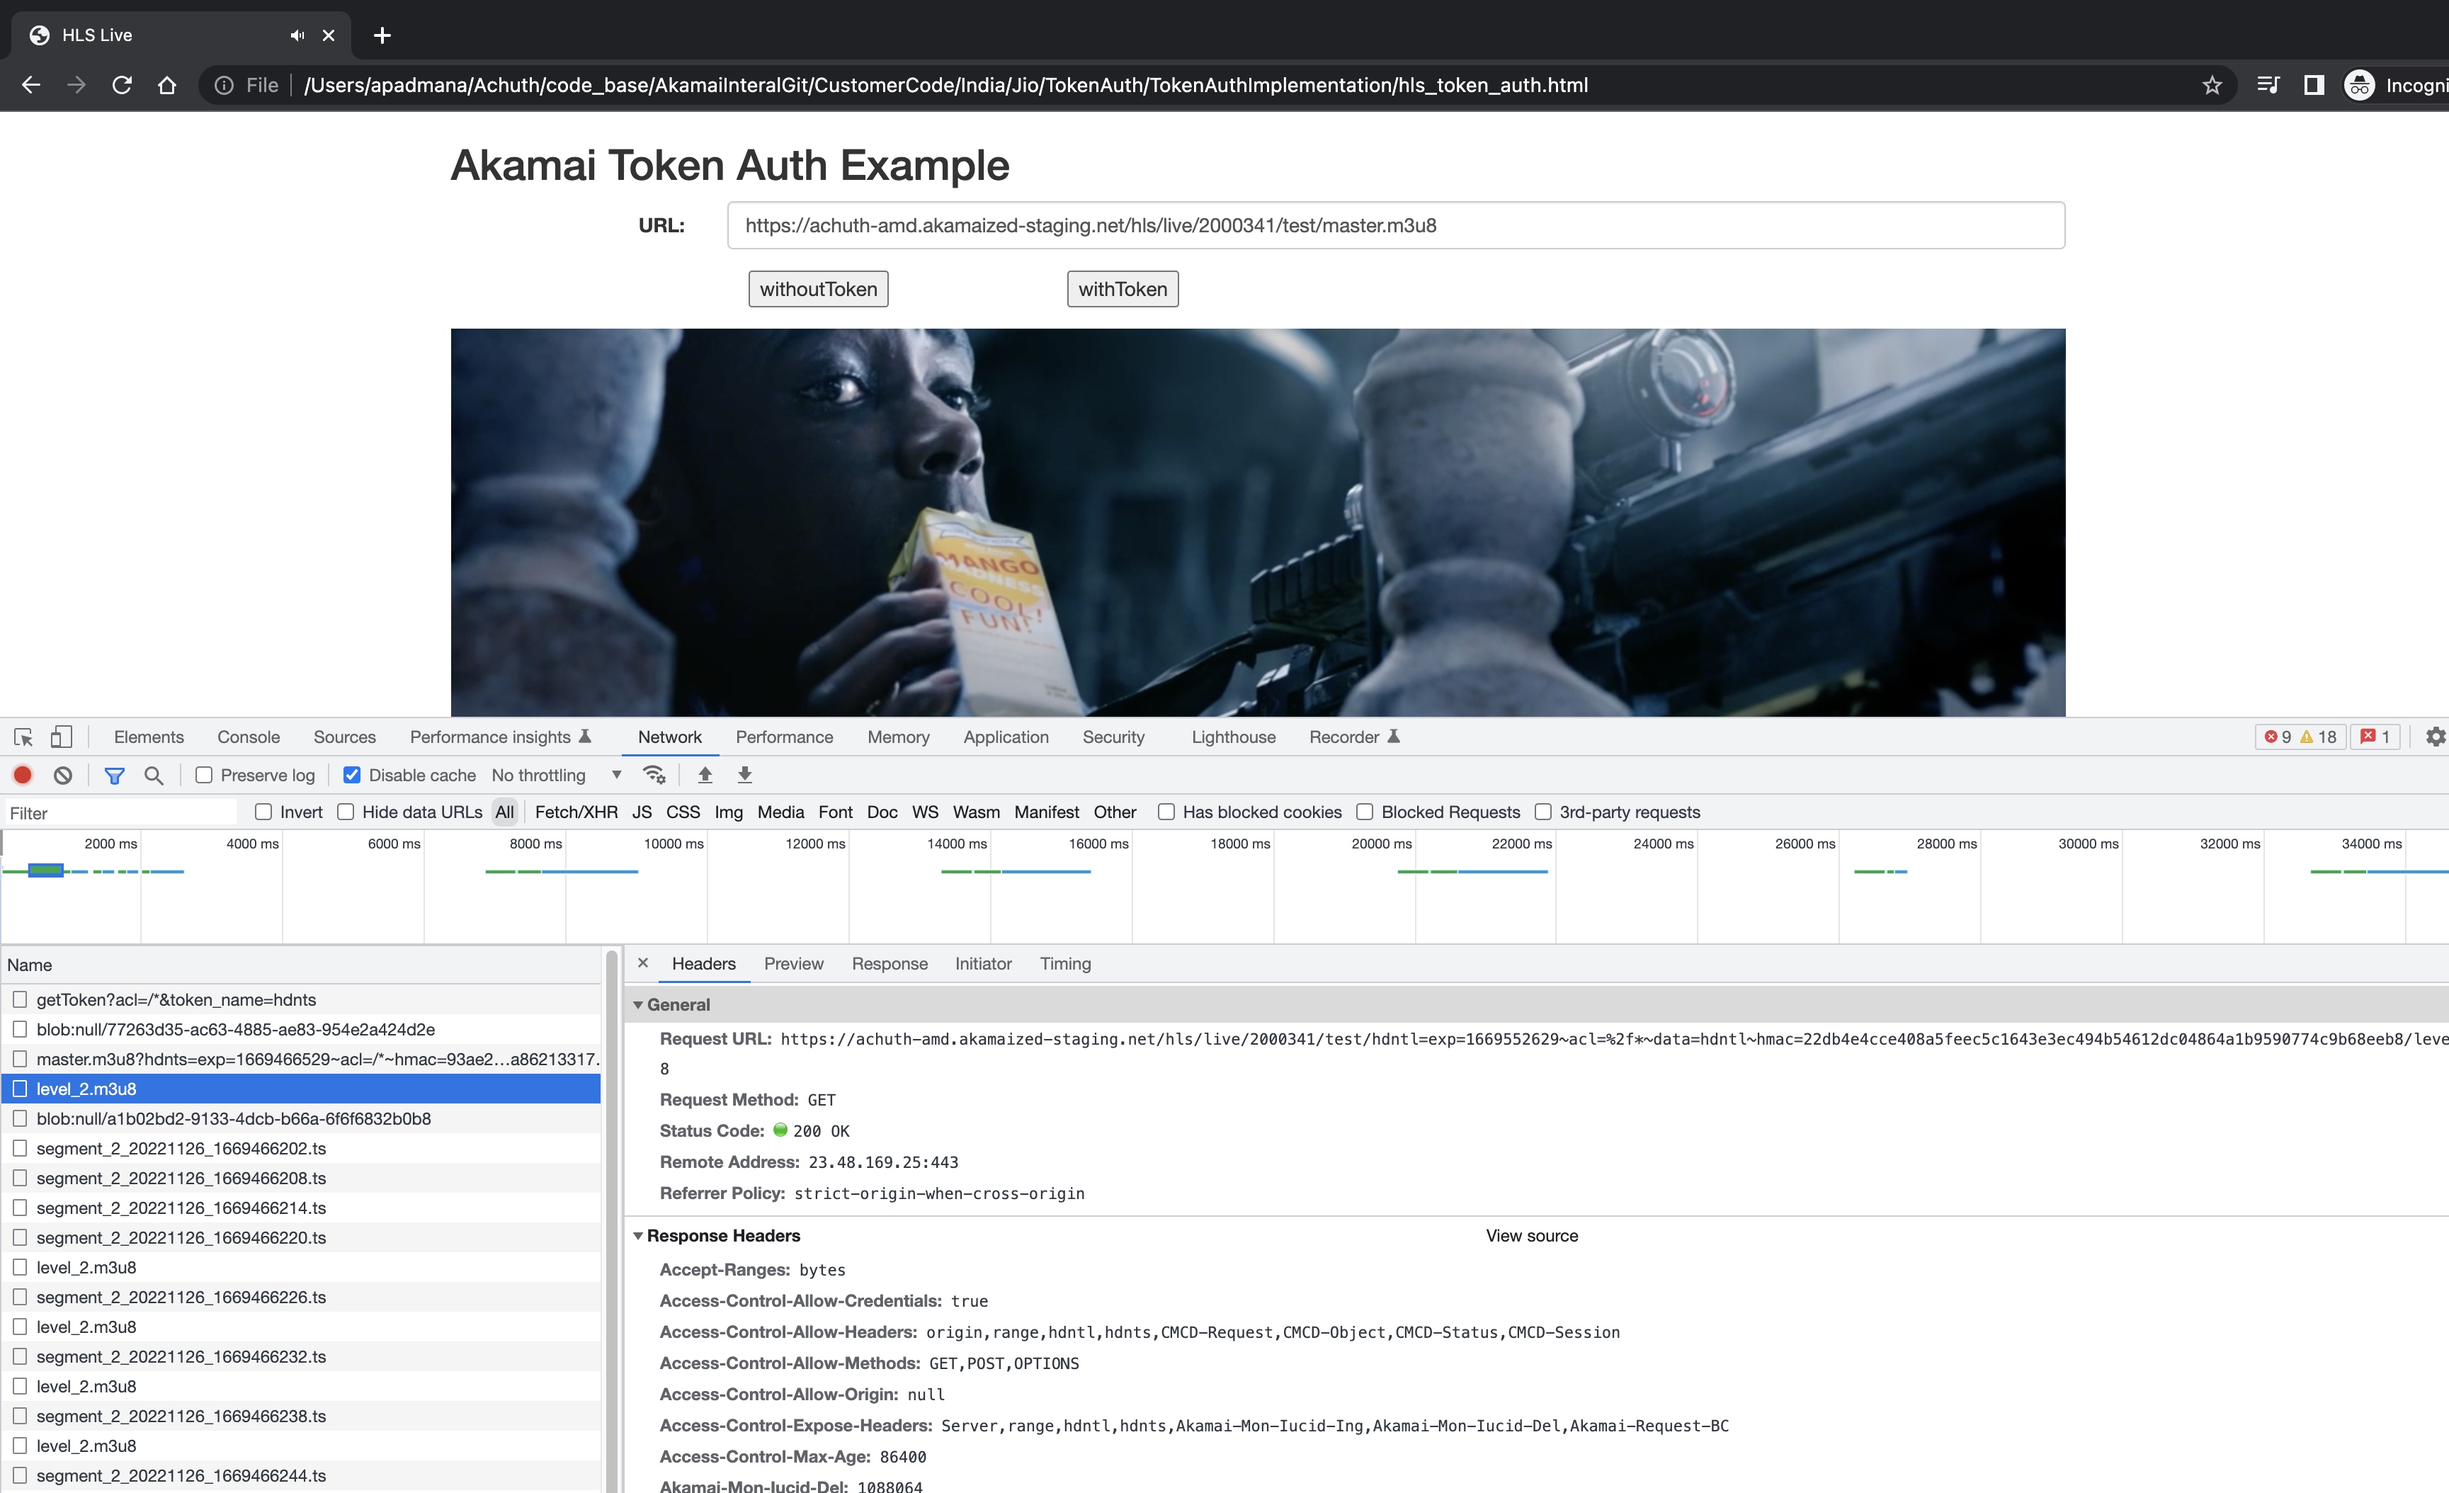
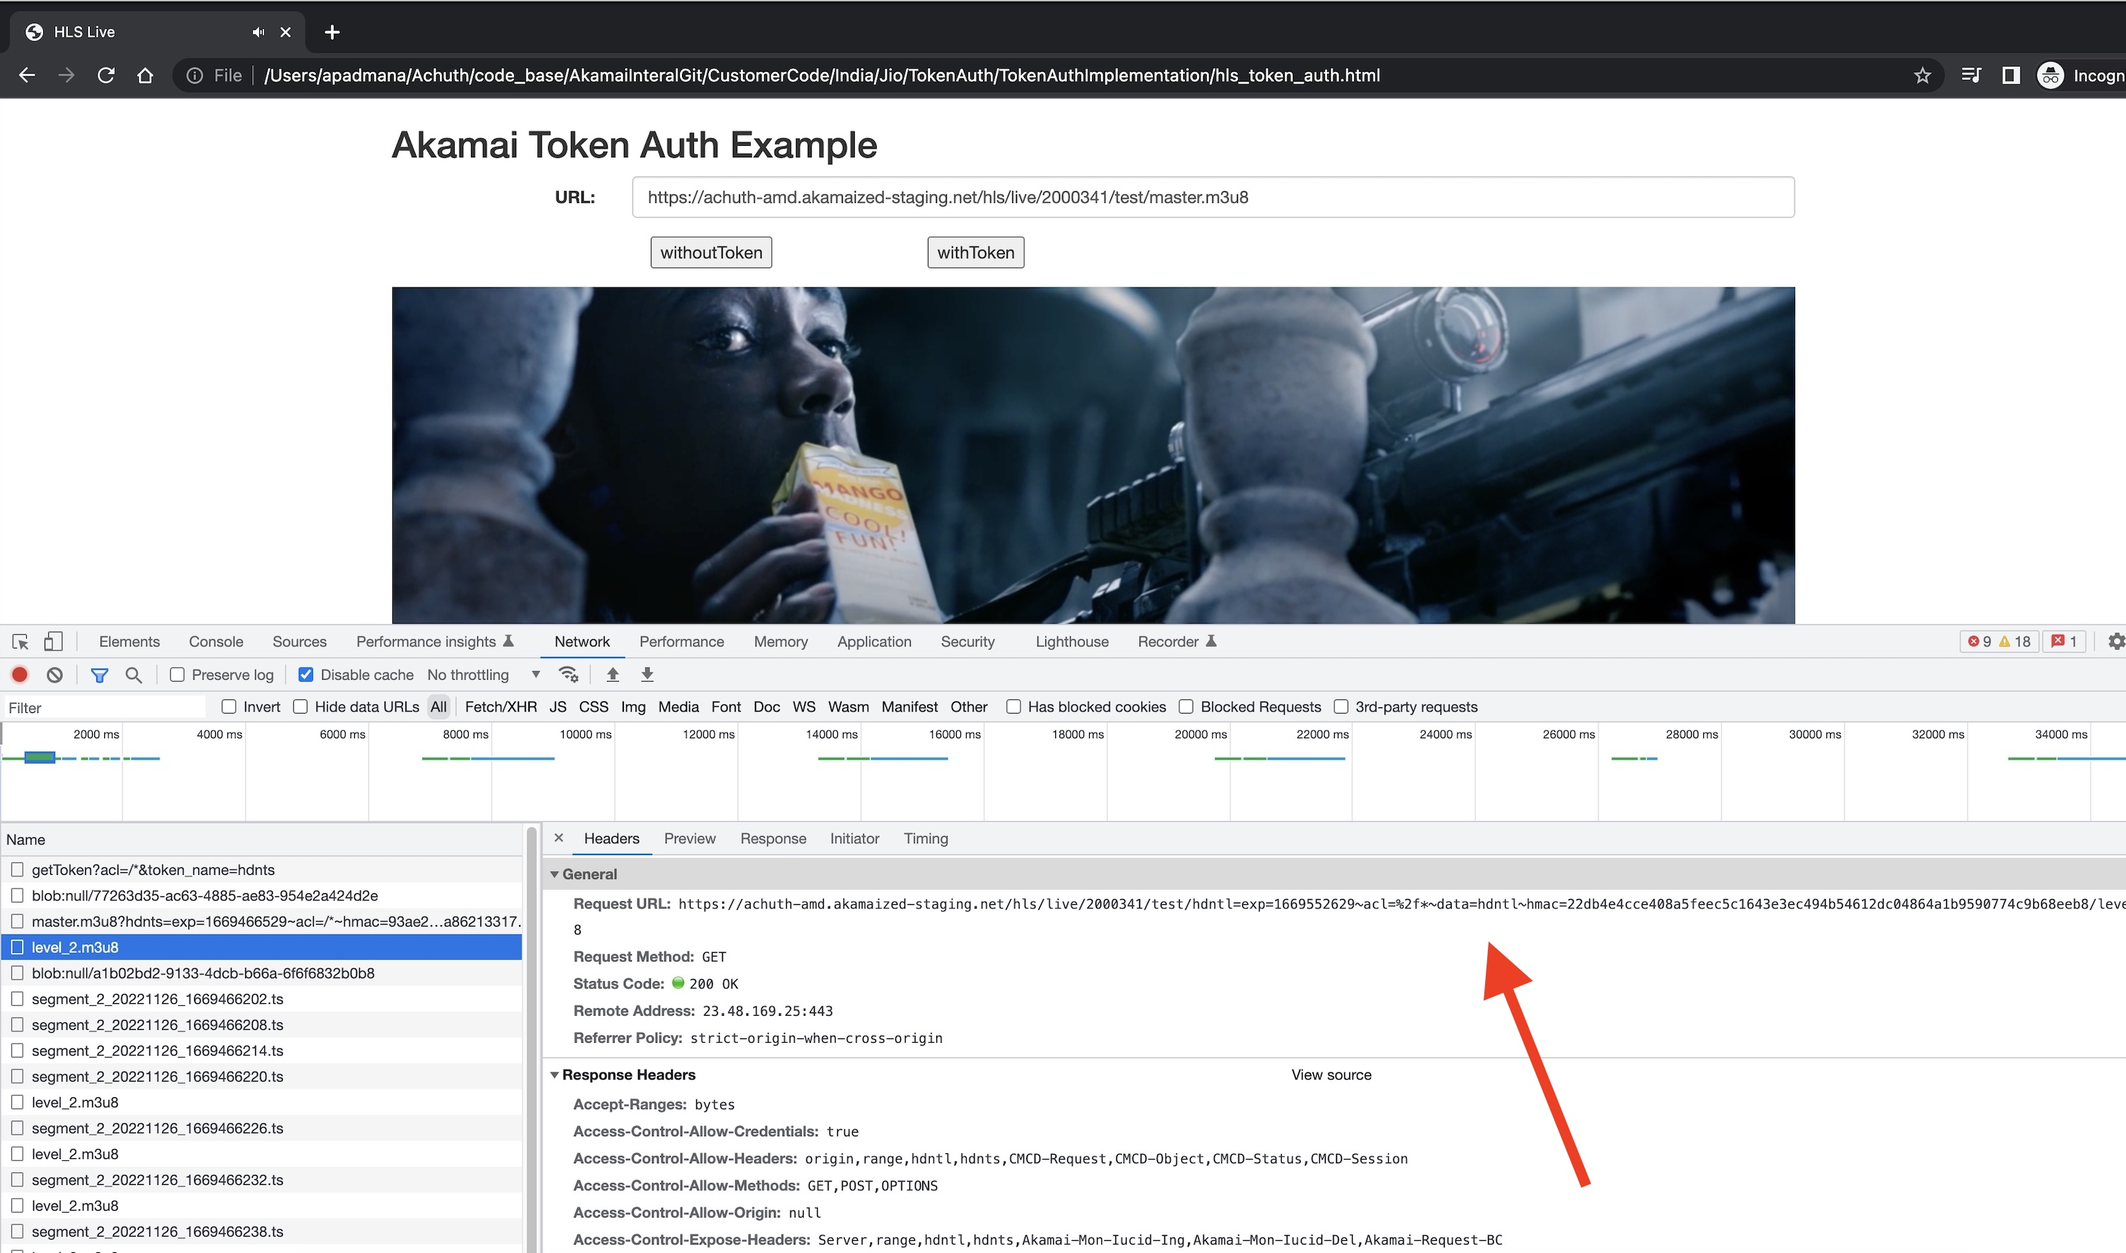
readme updated

diff --git a/README.md b/README.md
@@ -27,7 +27,14 @@ Integrate a HLS video player using videojs library in an HTML Page. This page ta
 ### Without Token
 ![alt text1](https://github.com/Achuthananda/TokenAuthImplementation/blob/master/withouttoken.jpg)
 
+
+
 ### With Token
+First token will be fetched from the token server
 ![alt text1](https://github.com/Achuthananda/TokenAuthImplementation/blob/master/tokencall.jpg)
+
+Next master manifest will be requested using the short token
 ![alt text1](https://github.com/Achuthananda/TokenAuthImplementation/blob/master/shorttoken.jpg)
+
+The urls of the child manifest and segments will be having long token in the url
 ![alt text1](https://github.com/Achuthananda/TokenAuthImplementation/blob/master/lontoken.jpg)
